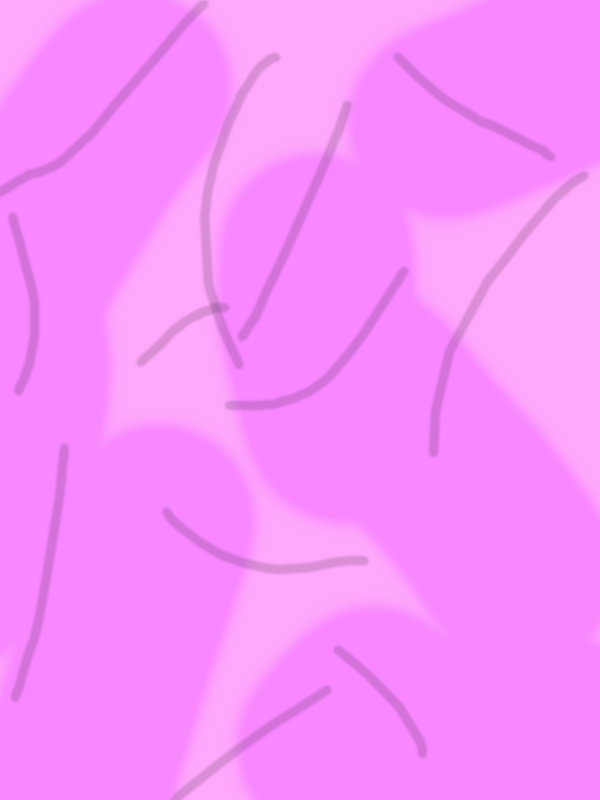
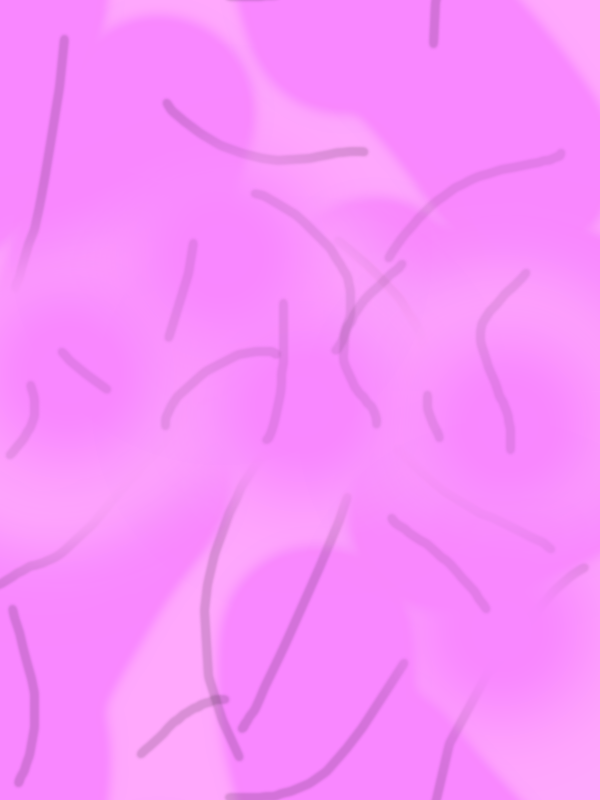
feat scrolling background

diff --git a/game.py b/game.py
@@ -17,6 +17,7 @@ SCROLL = 200
 GRAVITY = 0.25
 JUMP_STRENGTH = 2.5
 scrolled_dist = 0
+background_scroll = 0
 
 # screen setup
 screen = pygame.display.set_mode((SCREEN_WIDTH, SCREEN_HEIGT))
@@ -30,6 +31,13 @@ brainman_sprite = pygame.image.load('Assets/BrainMan.png').convert_alpha()
 # Colors
 WHITE = (255, 255, 255)
 BLACK = (0, 0, 0)
+
+#Game functions
+def scrollingbackground(background_scroll):
+    screen.blit(background_image, (0, 0 + background_scroll))
+    screen.blit(background_image, (0, -background_image.get_height() + background_scroll))
+
+
 
 # classes
 class Platform(pygame.sprite.Sprite):
@@ -86,7 +94,7 @@ class Player():
 
         self.vel_y += GRAVITY
         self.dy += self.vel_y
-        self.rect.y += self.dy
+        self.rect.y += self.dy + scroll
 
         # side switch
         if self.rect.x < 0:
@@ -138,14 +146,16 @@ for p in range(MAX_PLATFORMS):
 run = True
 brainman = Player(SCREEN_WIDTH // 2, SCREEN_HEIGT - 50)
 while run:
-
     #set framerate
     clock.tick(FPS)
 
-    
+    scroll = brainman.MoveCheck()
 
     # drawing
-    screen.blit(background_image, (0, 0))
+    background_scroll += scroll
+    if background_scroll >= background_image.get_height():
+        background_scroll = 0
+    scrollingbackground(background_scroll)
 
 
     platform_group.draw(screen)
@@ -153,7 +163,6 @@ while run:
     brainman.draw()
 
     #movement set
-    scroll = brainman.MoveCheck()
     platform_group.update(scroll)
 
     # events
